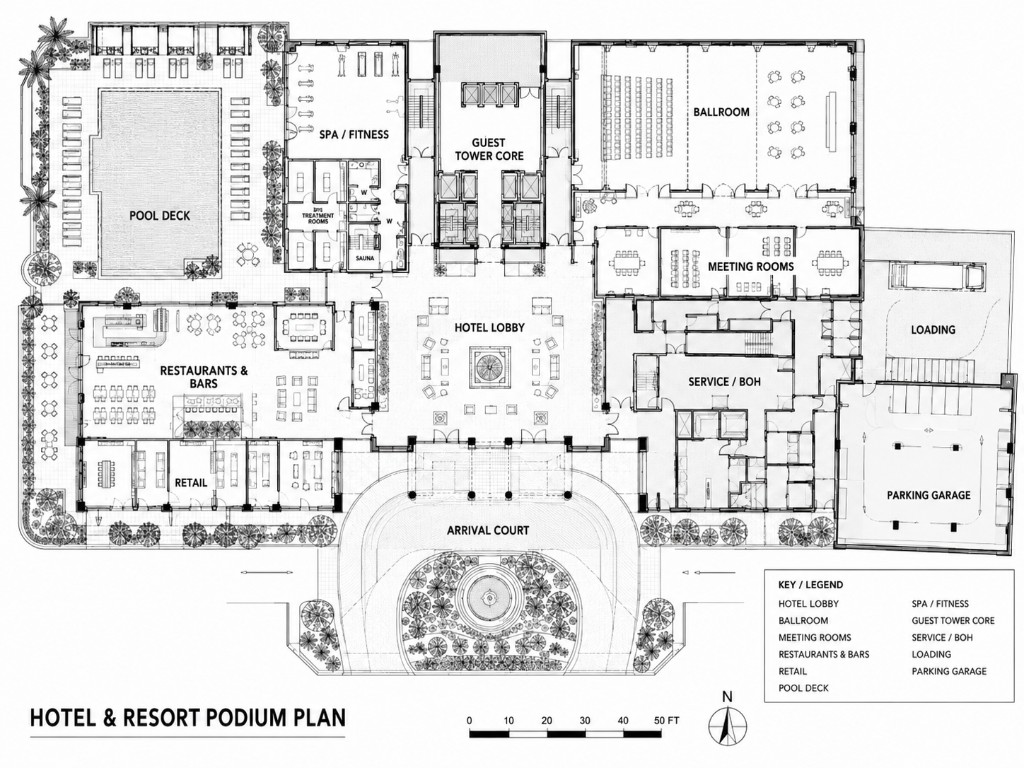
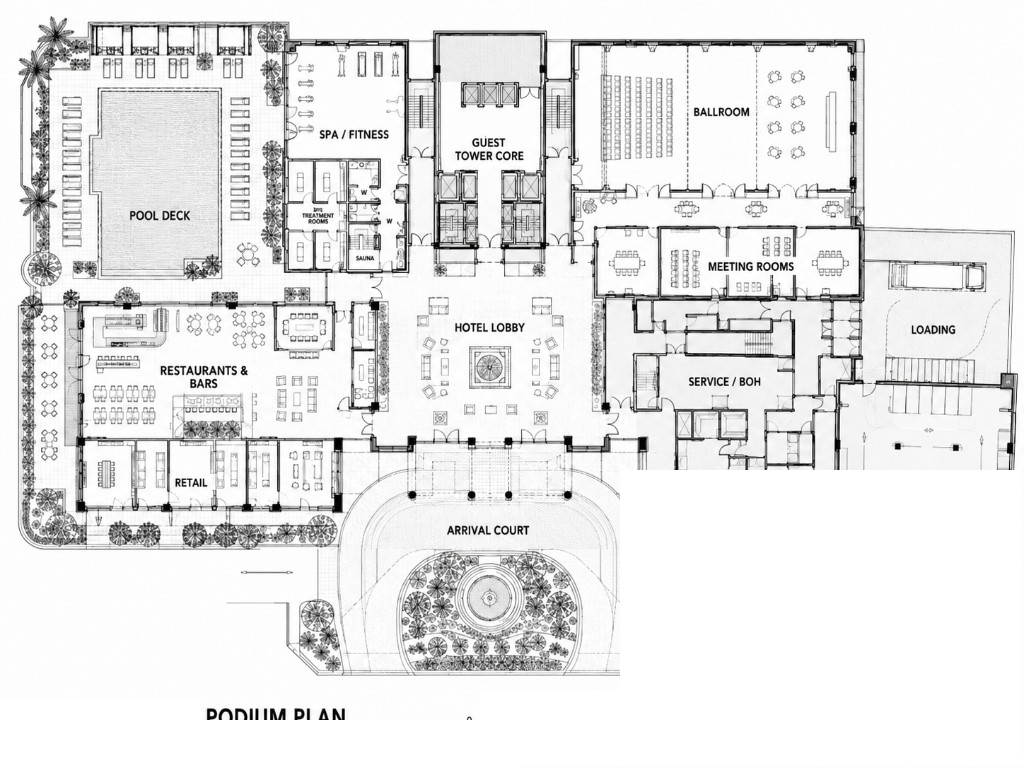
Industry floorplans: remove keys, shrink plan, push cards outward
Crop KEY/legend/scale bars from hotel, sports, airport, and
conference floorplan assets. Match the casino breathing-room
treatment across all industries — floorplan at ~66% width,
cards at -6% with outward leader lines, and more stage padding
so the plan and cards have room to breathe without overlapping.

diff --git a/src/data/industryDetails.ts b/src/data/industryDetails.ts
@@ -468,41 +468,41 @@ export const industryDetails: Partial<Record<IndustrySlug, IndustryDetail>> = {
         'The guest journey is a chain of touchpoints \u2014 arrival, lobby, restaurants, spa, pool, the event floor, the grounds \u2014 and at each one, screens, audio, and lighting shape the impression and carry the message. LUCI orchestrates them all as one, so the right moment lands in the right space at the right time.',
     },
     floorplan: {
-      image: '/images/industries/hotel/floorplan.png?v=1',
+      image: '/images/industries/hotel/floorplan.png?v=2',
       imageAlt:
         'Architectural floorplan of a hotel and resort podium: arrival court, lobby, retail, restaurants and bars, pool deck, spa and fitness, guest tower core, ballroom, meeting rooms, service and back of house, loading, and parking.',
       imageWidth: 1024,
       imageHeight: 768,
-      imageWidthPct: 78,
+      imageWidthPct: 65.83,
       ariaLabel: 'Hotel and resort zones LUCI orchestrates',
       zones: [
         {
           label: 'Set the tone on arrival',
           desc: 'Welcome and orient the guest with signage, wayfinding, and music.',
-          plate: { side: 'right', right: '-4%', top: '80%' },
+          plate: { side: 'right', right: '-6%', top: '80%' },
           delay: 0,
-          lines: [{ x1: 84, y1: 80, x2: 50, y2: 87 }],
+          lines: [{ x1: 90, y1: 80, x2: 50, y2: 87 }],
         },
         {
           label: 'Move guests toward amenities',
           desc: 'Promote the spa at dusk and breakfast at dawn \u2014 the right offer at the right moment.',
-          plate: { side: 'left', left: '-4%', top: '74%' },
+          plate: { side: 'left', left: '-6%', top: '74%' },
           delay: 1,
-          lines: [{ x1: 16, y1: 74, x2: 25, y2: 48 }],
+          lines: [{ x1: 8, y1: 74, x2: 25, y2: 48 }],
         },
         {
           label: 'Switch the event floor in a few taps',
           desc: 'Wedding, banquet, and corporate room A/V can combine or split in a matter of minutes.',
-          plate: { side: 'right', right: '-4%', top: '30%' },
+          plate: { side: 'right', right: '-6%', top: '30%' },
           delay: 2,
-          lines: [{ x1: 84, y1: 30, x2: 73, y2: 18 }],
+          lines: [{ x1: 90, y1: 30, x2: 73, y2: 18 }],
         },
         {
           label: 'Hold one brand across the property',
           desc: 'Every media interaction reinforces your marketing messages without drift.',
-          plate: { side: 'left', left: '-4%', top: '22%' },
+          plate: { side: 'left', left: '-6%', top: '22%' },
           delay: 3,
-          lines: [{ x1: 16, y1: 22, x2: 50, y2: 26 }],
+          lines: [{ x1: 8, y1: 22, x2: 50, y2: 26 }],
         },
       ],
     },
@@ -678,45 +678,45 @@ export const industryDetails: Partial<Record<IndustrySlug, IndustryDetail>> = {
       'Back of House',
     ],
     floorplan: {
-      image: '/images/industries/sports/floorplan.png?v=1',
+      image: '/images/industries/sports/floorplan.png?v=2',
       imageAlt:
         'Architectural floorplan of a multi-purpose sports arena configured for basketball: court and bowl, main concourse, suites and club, locker rooms, media area, VIP lobby, back of house, and loading dock.',
       imageWidth: 1024,
       imageHeight: 768,
-      imageWidthPct: 78,
+      imageWidthPct: 65.83,
       ariaLabel: 'Sports venue zones LUCI orchestrates',
       zones: [
         {
           label: 'Bring the bowl to life',
           desc: 'A big play, and the whole bowl reacts as one \u2014 boards, audio, and lighting fire together in sync.',
-          plate: { side: 'right', right: '-4%', top: '26%' },
+          plate: { side: 'right', right: '-6%', top: '26%' },
           delay: 0,
-          lines: [{ x1: 84, y1: 26, x2: 52, y2: 50 }],
+          lines: [{ x1: 90, y1: 26, x2: 52, y2: 50 }],
         },
         {
           label: 'Turn every screen into a moment',
           desc: 'Sponsors don\u2019t want placements \u2014 they want moments. Turn every screen into a sponsor activation, on demand.',
-          plate: { side: 'right', right: '-4%', top: '72%' },
+          plate: { side: 'right', right: '-6%', top: '72%' },
           delay: 1,
-          lines: [{ x1: 84, y1: 72, x2: 54, y2: 28 }],
+          lines: [{ x1: 90, y1: 72, x2: 54, y2: 28 }],
         },
         {
           label: 'Reset the building between events',
           desc: 'Basketball tonight, a concert tomorrow \u2014 the building\u2019s full A/V environment switches for any event, in moments.',
-          plate: { side: 'left', left: '-4%', top: '64%' },
+          plate: { side: 'left', left: '-6%', top: '64%' },
           delay: 2,
           lines: [
-            { x1: 16, y1: 64, x2: 50, y2: 48 },
-            { x1: 16, y1: 64, x2: 50, y2: 24 },
-            { x1: 16, y1: 64, x2: 52, y2: 76 },
+            { x1: 8, y1: 64, x2: 50, y2: 48 },
+            { x1: 8, y1: 64, x2: 50, y2: 24 },
+            { x1: 8, y1: 64, x2: 52, y2: 76 },
           ],
         },
         {
           label: 'Run the whole show from one place',
           desc: 'Every display, zone, and light in the building can be controlled from one interface.',
-          plate: { side: 'left', left: '-4%', top: '20%' },
+          plate: { side: 'left', left: '-6%', top: '20%' },
           delay: 3,
-          lines: [{ x1: 16, y1: 20, x2: 50, y2: 70 }],
+          lines: [{ x1: 8, y1: 20, x2: 50, y2: 70 }],
         },
       ],
     },
@@ -885,41 +885,41 @@ export const industryDetails: Partial<Record<IndustrySlug, IndustryDetail>> = {
         'In a terminal, information is everything — and your screens, speakers, and signage are how passengers get it. That makes multimedia the layer that guides the journey, drives revenue, and carries the messages that matter most.',
     },
     floorplan: {
-      image: '/images/industries/airports-transportation/floorplan.png?v=1',
+      image: '/images/industries/airports-transportation/floorplan.png?v=2',
       imageAlt:
         'Architectural floorplan of an airport terminal: departures hall, arrivals hall, concourses A/B/C, airline lounges, administration, parking, hotel and conference center, departure curbside, and ground transportation.',
       imageWidth: 1024,
       imageHeight: 682,
-      imageWidthPct: 78,
+      imageWidthPct: 65.83,
       ariaLabel: 'Airport terminal zones LUCI orchestrates',
       zones: [
         {
           label: 'Set the tone at arrival',
           desc: 'The first screens a passenger sees shape the whole journey — calm, oriented, on-brand from the curb.',
-          plate: { side: 'right', right: '-4%', top: '80%' },
+          plate: { side: 'right', right: '-6%', top: '80%' },
           delay: 0,
-          lines: [{ x1: 84, y1: 80, x2: 50, y2: 62 }],
+          lines: [{ x1: 90, y1: 80, x2: 50, y2: 62 }],
         },
         {
           label: 'Turn dwell time into revenue',
           desc: 'The time between security and boarding is your best commercial inventory — the right offer, at the right gate, at the right moment.',
-          plate: { side: 'left', left: '-4%', top: '76%' },
+          plate: { side: 'left', left: '-6%', top: '76%' },
           delay: 1,
-          lines: [{ x1: 16, y1: 76, x2: 23, y2: 48 }],
+          lines: [{ x1: 8, y1: 76, x2: 23, y2: 48 }],
         },
         {
           label: 'Give passengers the right info at the right time',
           desc: 'Keep wayfinding and gate information clear, current, and consistent.',
-          plate: { side: 'right', right: '-4%', top: '30%' },
+          plate: { side: 'right', right: '-6%', top: '30%' },
           delay: 2,
-          lines: [{ x1: 84, y1: 30, x2: 50, y2: 56 }],
+          lines: [{ x1: 90, y1: 30, x2: 50, y2: 56 }],
         },
         {
           label: 'Keep the whole terminal in sync',
           desc: 'One consistent message across every screen and speaker — so passengers always know what’s happening, especially when plans change.',
-          plate: { side: 'left', left: '-4%', top: '24%' },
+          plate: { side: 'left', left: '-6%', top: '24%' },
           delay: 3,
-          lines: [{ x1: 16, y1: 24, x2: 50, y2: 45 }],
+          lines: [{ x1: 8, y1: 24, x2: 50, y2: 45 }],
         },
       ],
     },
@@ -966,40 +966,40 @@ export const industryDetails: Partial<Record<IndustrySlug, IndustryDetail>> = {
         'In a convention center, flexibility is everything — and your screens, signs, and LED are how the building becomes each client’s event. That makes multimedia the layer that brands the space per client, guides attendees in real time, and turns circulation into revenue.',
     },
     floorplan: {
-      image: '/images/industries/conference-convention-centers/floorplan.png?v=1',
+      image: '/images/industries/conference-convention-centers/floorplan.png?v=2',
       imageAlt: 'Architectural floorplan of a conference and convention center: arrival court, registration, prefunction lobby, grand ballroom, exhibition hall, meeting rooms, breakout rooms, boardrooms, administration, food service and cafe, outdoor terrace, and parking garage.',
       imageWidth: 1024,
       imageHeight: 768,
-      imageWidthPct: 78,
+      imageWidthPct: 65.83,
       ariaLabel: 'Convention center zones LUCI orchestrates',
       zones: [
         {
           label: 'Brand any space for any client',
           desc: 'Give each event its own branding across room signs, wayfinding, and LED.',
-          plate: { side: 'left', left: '-4%', top: '24%' },
+          plate: { side: 'left', left: '-6%', top: '24%' },
           delay: 0,
-          lines: [{ x1: 16, y1: 24, x2: 22, y2: 18 }],
+          lines: [{ x1: 8, y1: 24, x2: 22, y2: 18 }],
         },
         {
           label: 'Manage concurrent events with precision',
           desc: 'On a day with several events in the building, easily control A/V in each zone from one interface.',
-          plate: { side: 'right', right: '-4%', top: '30%' },
+          plate: { side: 'right', right: '-6%', top: '30%' },
           delay: 1,
-          lines: [{ x1: 84, y1: 30, x2: 80, y2: 18 }],
+          lines: [{ x1: 90, y1: 30, x2: 80, y2: 18 }],
         },
         {
           label: 'Guide every attendee',
           desc: 'Sessions move, rooms change, schedules shift by the hour — keep everyone on track and on time.',
-          plate: { side: 'right', right: '-4%', top: '76%' },
+          plate: { side: 'right', right: '-6%', top: '76%' },
           delay: 2,
-          lines: [{ x1: 84, y1: 76, x2: 50, y2: 45 }],
+          lines: [{ x1: 90, y1: 76, x2: 50, y2: 45 }],
         },
         {
           label: 'Turn circulation into revenue',
           desc: 'Turn lobbies and concourses into branded, sponsorable space that can be switched with a tap.',
-          plate: { side: 'left', left: '-4%', top: '80%' },
+          plate: { side: 'left', left: '-6%', top: '80%' },
           delay: 3,
-          lines: [{ x1: 16, y1: 80, x2: 20, y2: 75 }],
+          lines: [{ x1: 8, y1: 80, x2: 20, y2: 75 }],
         },
       ],
     },
